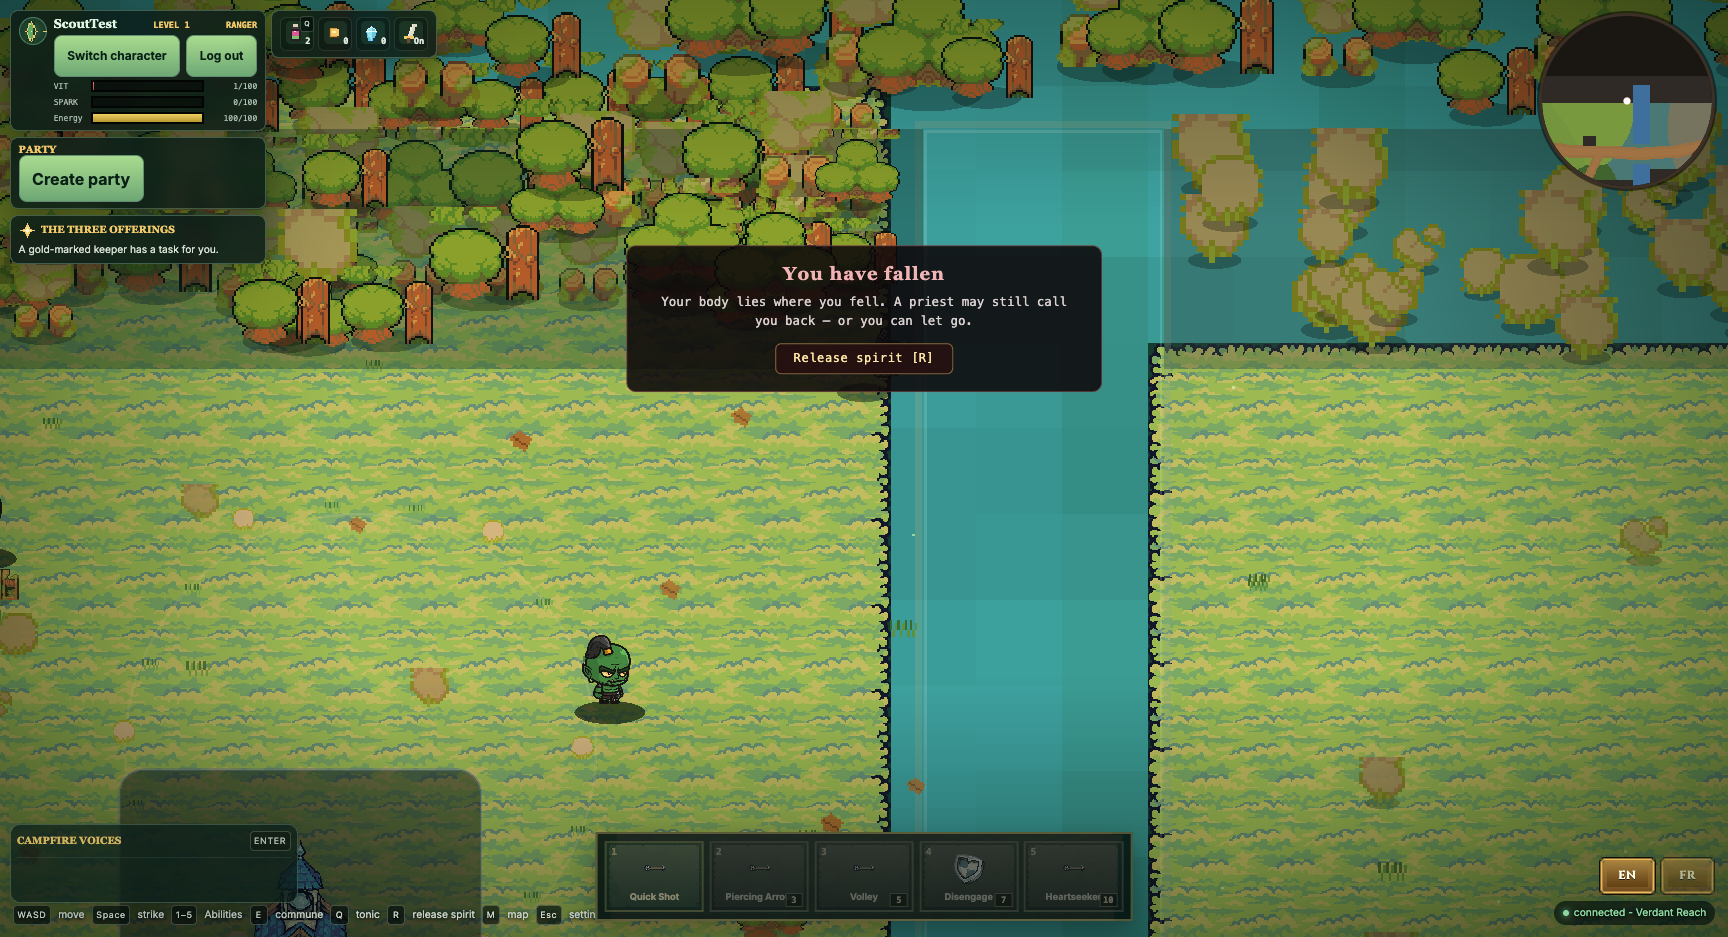
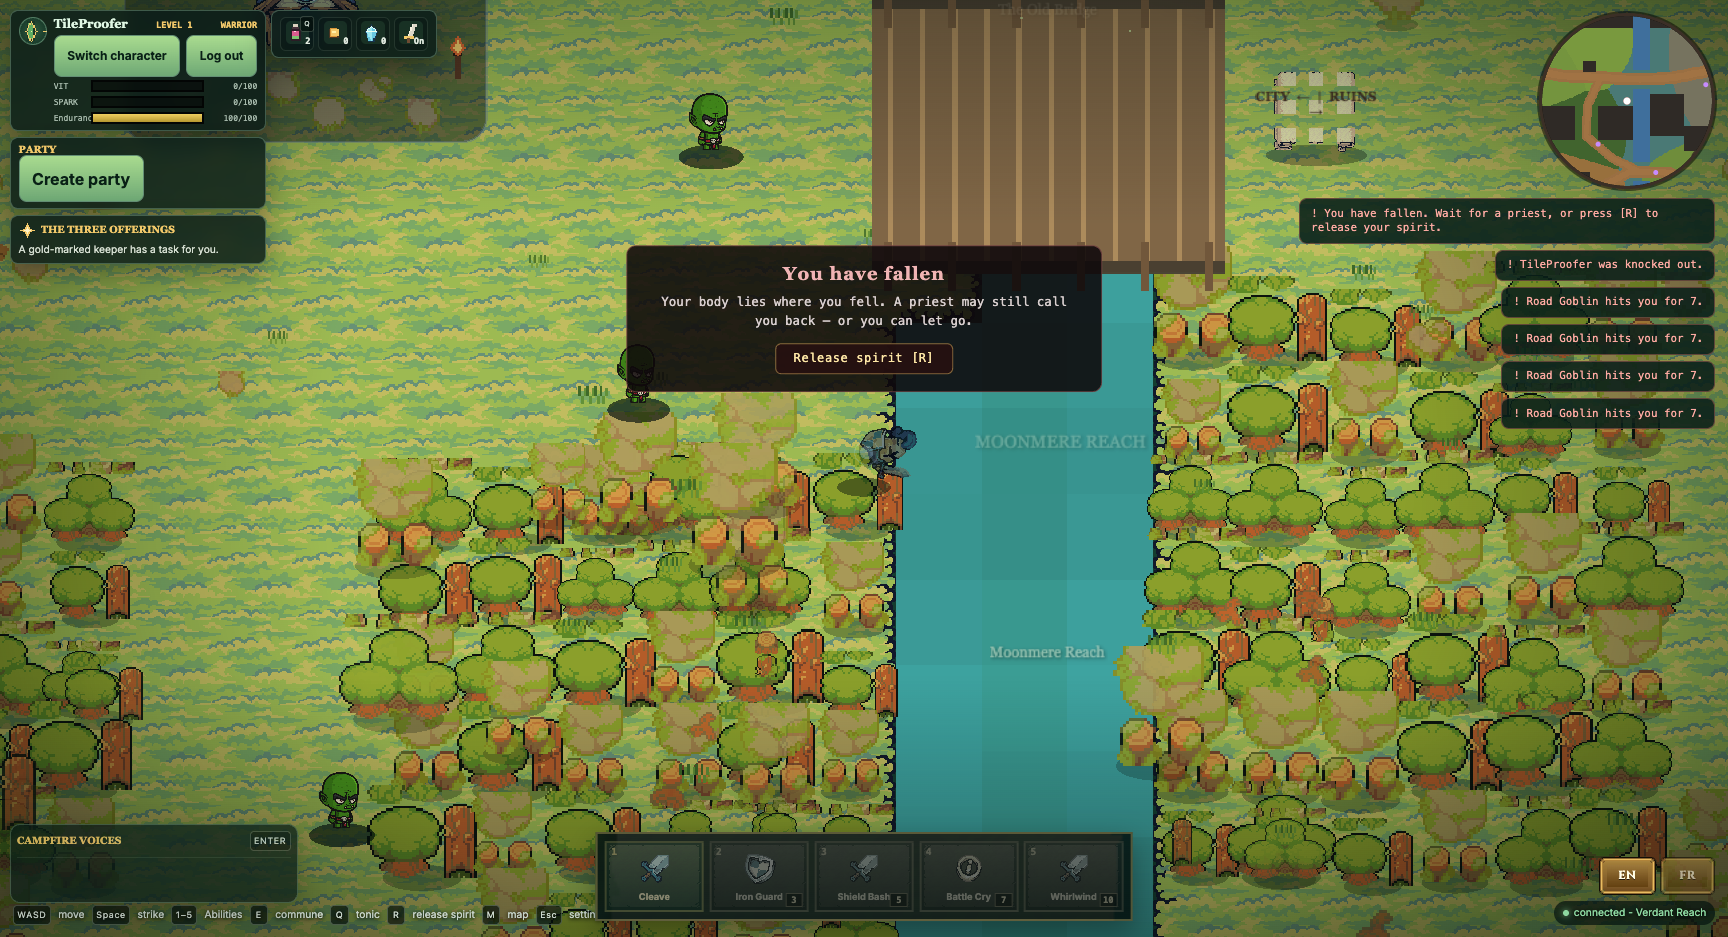
Delete the rect-drawn world still on top of the tilemap
Commit 2515569 moved terrain drawing onto the 64px tilemap but left the old
rect-authored prop scatter drawing from the rects' pre-image: #buildBoundary
scattered 237 trees/rocks along the world's edge, which the tilemap now
correctly renders as water; #buildSharedBlockers scattered 235 more into the
three cliff rects (which rasterise to water) plus 20 more onto forest-rect
cells the tile grid calls open ground; and #buildDecor scattered props with
no tile awareness at all (8 on water, 35 trees on walkable ground).

Delete #buildSharedBlockers and #buildBoundary's prop scatter outright (the
former's forest props are superseded by the tile-driven #buildForestTrees
anyway), and gate #buildDecor on the real tile grid: skip any prop over a
water cell, and skip a tree pick unless the cell is solid enough to actually
block a player. #blockedAt (a stale rect-containment check) is now redundant
and goes with it.

Verified against the real Verdant Reach tilemap: reproduced the reviewer's
237/235/20 counts before the fix, confirmed zero after. That check is now
test/tile-render-props.test.ts, a permanent regression test over the real
DECOR_REGIONS and tilemap data.

diff --git a/src/client/game/renderer.ts b/src/client/game/renderer.ts
@@ -11,7 +11,6 @@ import {
 import type { MainHandItem, OffHandItem, PrimaryColor } from "../../shared/character.js";
 import { isSpirit } from "../../shared/death.js";
 import {
-  BOUNDARY_OBSTACLES,
   hashSeed,
   type MonsterSpecies,
   type PlayerClass,
@@ -20,7 +19,6 @@ import {
   QUEST_NPC,
   QUEST_SITES,
   SAFE_ZONE,
-  TERRAIN_BLOCKERS,
   VERDANT_REACH_TERRAIN,
   WORLD_LANDMARKS,
 } from "../../shared/game.js";
@@ -35,7 +33,7 @@ import type {
   QuestState,
 } from "../../shared/protocol.js";
 import { PLAYER_SIZE, WORLD_HEIGHT, WORLD_WIDTH } from "../../shared/simulation.js";
-import { isLandKind, kindAt, TILE_SIZE } from "../../shared/tilemap.js";
+import { isLandKind, isSolidKind, kindAt, kindAtPoint, TILE_SIZE } from "../../shared/tilemap.js";
 import { onLocaleChange, t } from "../i18n.js";
 import { landTile } from "./autotile.js";
 import { MAIN_HAND_ART, OFF_HAND_ART, PLAYER_ATLAS_FRAMES } from "./character-art.js";
@@ -607,9 +605,7 @@ export class Renderer {
     );
     this.#app.stage.addChild(this.#world);
 
-    this.#buildSharedBlockers();
     this.#buildForestTrees();
-    this.#buildBoundary();
     this.#buildDecor();
     this.#buildSetPieces();
     this.#buildLandmarks();
@@ -631,55 +627,6 @@ export class Renderer {
   ): void {
     parent.addChild(container);
     this.#staticViews.push({ container, x, y, radius });
-  }
-
-  #buildSharedBlockers(): void {
-    for (const [blockerIndex, blocker] of TERRAIN_BLOCKERS.entries()) {
-      const { rect } = blocker;
-      const centerX = rect.x + rect.width / 2;
-      const centerY = rect.y + rect.height / 2;
-      const radius = Math.hypot(rect.width, rect.height) / 2 + 50;
-      if (blocker.kind === "water") {
-        const bank = new Graphics()
-          .rect(rect.x - 3, rect.y - 3, rect.width + 6, rect.height + 6)
-          .stroke({ width: 5, color: 0x88a889, alpha: 0.34 })
-          .rect(rect.x + 2, rect.y + 2, rect.width - 4, rect.height - 4)
-          .stroke({ width: 2, color: 0xc2e3d5, alpha: 0.2 });
-        this.#registerStatic(bank, centerX, centerY, radius, this.#groundDecor);
-        continue;
-      }
-
-      const mass = new Container();
-      mass.position.set(rect.x, rect.y);
-      mass.addChild(
-        new Graphics()
-          .rect(0, 0, rect.width, rect.height)
-          .fill({ color: blocker.kind === "cliff" ? 0x34443c : 0x102f28, alpha: 0.36 }),
-      );
-      const spacing = blocker.kind === "cliff" ? 52 : 64;
-      const columns = Math.max(1, Math.floor(rect.width / spacing));
-      const rows = Math.max(1, Math.floor(rect.height / spacing));
-      const count = Math.min(88, columns * rows + columns);
-      for (let index = 0; index < count; index++) {
-        const seed = blockerIndex * 401 + index * 17;
-        const x = 18 + seeded(seed + 2) * Math.max(8, rect.width - 36);
-        const y = 28 + seeded(seed + 7) * Math.max(8, rect.height - 34);
-        const isRock = blocker.kind === "cliff" || index % 9 === 0;
-        const texture = isRock
-          ? pickTexture(this.art.props.rocks, seed)
-          : pickTexture(this.art.props.trees, seed);
-        const size = isRock ? 36 + seeded(seed + 3) * 30 : 58 + seeded(seed + 5) * 34;
-        const shadow = createSoftShadow(size * 0.78, size * 0.25, 0.3);
-        shadow.position.set(x, y - 2);
-        mass.addChild(shadow);
-        const prop = createFittedSprite(texture, size, size);
-        prop.anchor.set(0.5, 1);
-        prop.position.set(x, y);
-        prop.tint = blocker.kind === "cliff" ? 0xb8c2a8 : 0xcbd8ae;
-        mass.addChild(prop);
-      }
-      this.#registerStatic(mass, centerX, centerY, radius);
-    }
   }
 
   /**
@@ -715,43 +662,6 @@ export class Renderer {
     }
   }
 
-  #buildBoundary(): void {
-    for (const [side, rect] of BOUNDARY_OBSTACLES.entries()) {
-      const horizontal = rect.width > rect.height;
-      const length = horizontal ? rect.width : rect.height;
-      const count = Math.ceil(length / 58);
-      for (let index = 0; index < count; index++) {
-        const seed = 2600 + side * 307 + index * 13;
-        const x = horizontal
-          ? rect.x + ((index + 0.35 + seeded(seed)) / count) * rect.width
-          : rect.x + rect.width * (0.25 + seeded(seed + 2) * 0.5);
-        const y = horizontal
-          ? rect.y + rect.height * (0.35 + seeded(seed + 4) * 0.55)
-          : rect.y + ((index + 0.35 + seeded(seed)) / count) * rect.height;
-        const container = new Container();
-        container.position.set(x, y);
-        const rocky = side >= 2 && index % 3 === 0;
-        const texture = rocky
-          ? pickTexture(this.art.props.rocks, seed)
-          : pickTexture(this.art.props.trees, seed);
-        const size = rocky ? 44 + seeded(seed + 5) * 24 : 68 + seeded(seed + 7) * 42;
-        container.addChild(createSoftShadow(size * 0.75, size * 0.24, 0.32));
-        const prop = createFittedSprite(texture, size, size);
-        prop.anchor.set(0.5, 1);
-        prop.tint = side === 2 ? 0xb8c2a0 : 0xc8d5aa;
-        container.addChild(prop);
-        this.#registerStatic(container, x, y, size + 30);
-      }
-    }
-  }
-
-  #blockedAt(x: number, y: number): boolean {
-    return TERRAIN_BLOCKERS.some(
-      ({ rect }) =>
-        x >= rect.x && x <= rect.x + rect.width && y >= rect.y && y <= rect.y + rect.height,
-    );
-  }
-
   #nearLandmark(x: number, y: number, margin: number): boolean {
     return WORLD_LANDMARKS.some(
       (landmark) =>
@@ -762,16 +672,37 @@ export class Renderer {
     );
   }
 
-  #decorTexture(theme: DecorTheme, seed: number): { texture: Texture; size: number; tint: number } {
+  /**
+   * `solid` marks a pick as a tree — a prop that reads as something you'd expect to collide
+   * with. `#buildDecor` only lets one stand where the tile grid agrees a tree could be: on a
+   * `forest` (or `building`) cell. Everything else here (tufts, mushrooms, rocks, fences, ruins)
+   * is small enough or already understood as walk-through set dressing, so it is not held to that
+   * rule — only the water check applies to it.
+   */
+  #decorTexture(
+    theme: DecorTheme,
+    seed: number,
+  ): { texture: Texture; size: number; tint: number; solid: boolean } {
     if (theme === "forest") {
       if (seed % 9 === 0)
-        return { texture: pickTexture(this.art.props.mushrooms, seed), size: 22, tint: 0xd8e8b8 };
+        return {
+          texture: pickTexture(this.art.props.mushrooms, seed),
+          size: 22,
+          tint: 0xd8e8b8,
+          solid: false,
+        };
       if (seed % 7 === 0)
-        return { texture: pickTexture(this.art.props.rocks, seed), size: 28, tint: 0xc8d2af };
+        return {
+          texture: pickTexture(this.art.props.rocks, seed),
+          size: 28,
+          tint: 0xc8d2af,
+          solid: false,
+        };
       return {
         texture: pickTexture(this.art.props.trees, seed),
         size: 54 + seeded(seed + 6) * 38,
         tint: 0xd4dfb6,
+        solid: true,
       };
     }
     if (theme === "marsh" || theme === "wet") {
@@ -785,6 +716,7 @@ export class Renderer {
         texture: pickTexture(pool, seed),
         size: seed % 7 === 0 ? 34 : 20 + seeded(seed + 5) * 14,
         tint: 0xbfd2b0,
+        solid: false,
       };
     }
     if (theme === "ruin" || theme === "gate") {
@@ -793,6 +725,7 @@ export class Renderer {
         texture: pickTexture(pool, seed),
         size: seed % 6 === 0 ? 52 : 24 + seeded(seed + 5) * 24,
         tint: 0xcacbb4,
+        solid: false,
       };
     }
     if (theme === "farm") {
@@ -802,6 +735,7 @@ export class Renderer {
         texture: pickTexture(pool, seed),
         size: seed % 5 === 0 ? 42 : 18 + seeded(seed + 5) * 10,
         tint: 0xe0d1a5,
+        solid: false,
       };
     }
     if (theme === "road") {
@@ -810,18 +744,23 @@ export class Renderer {
         texture: pickTexture(pool, seed),
         size: seed % 5 === 0 ? 38 : 20 + seeded(seed + 5) * 14,
         tint: 0xd8cfaa,
+        solid: false,
       };
     }
-    const pool =
-      seed % 6 === 0 ? this.art.props.trees : [...this.art.props.tufts, ...this.art.props.leaves];
+    const isTree = seed % 6 === 0;
+    const pool = isTree
+      ? this.art.props.trees
+      : [...this.art.props.tufts, ...this.art.props.leaves];
     return {
       texture: pickTexture(pool, seed),
-      size: seed % 6 === 0 ? 52 + seeded(seed + 5) * 26 : 18 + seeded(seed + 5) * 10,
+      size: isTree ? 52 + seeded(seed + 5) * 26 : 18 + seeded(seed + 5) * 10,
       tint: theme === "village" ? 0xe5dbb7 : 0xe9e1b8,
+      solid: isTree,
     };
   }
 
   #buildDecor(): void {
+    const tiles = VERDANT_REACH_TERRAIN.tiles;
     for (const region of DECOR_REGIONS) {
       for (let index = 0; index < region.count; index++) {
         const seed = region.seed + index * 19;
@@ -831,7 +770,7 @@ export class Renderer {
         const y = region.y + Math.sin(angle) * region.radiusY * radius;
         if (x < 120 || y < 120 || x > WORLD_WIDTH - 120 || y > WORLD_HEIGHT - 120) continue;
         if (roadStrength(x, y) > 0) continue;
-        if (this.#blockedAt(x, y) || this.#nearLandmark(x, y, 70)) continue;
+        if (this.#nearLandmark(x, y, 70)) continue;
         const inSquare =
           x > SAFE_ZONE.x + 210 &&
           x < SAFE_ZONE.x + SAFE_ZONE.width - 170 &&
@@ -840,6 +779,13 @@ export class Renderer {
         if (inSquare) continue;
 
         const selection = this.#decorTexture(region.theme, seed);
+        // What you see must be what you collide with: a prop floating over water is a lie, and
+        // so is a "solid" tree standing on ground a player can walk straight through. The tile
+        // grid — not the pre-image rects this scatter used to trust — is the one truth for both.
+        const kind = kindAtPoint(tiles, x, y);
+        if (!isLandKind(kind)) continue;
+        if (selection.solid && !isSolidKind(kind)) continue;
+
         const container = new Container();
         container.position.set(x, y);
         if (selection.size > 34) {

diff --git a/test/tile-render-props.test.ts b/test/tile-render-props.test.ts
@@ -1,0 +1,121 @@
+import { describe, expect, it } from "vitest";
+import { DECOR_REGIONS, roadStrength } from "../src/client/game/world-layout.js";
+import { SAFE_ZONE, VERDANT_REACH_TERRAIN, WORLD_LANDMARKS } from "../src/shared/game.js";
+import { WORLD_HEIGHT, WORLD_WIDTH } from "../src/shared/simulation.js";
+import { isLandKind, isSolidKind, kindAtPoint } from "../src/shared/tilemap.js";
+
+/**
+ * The thesis of this slice is "what you SEE is what you COLLIDE with." Commit 2515569 moved
+ * *terrain* onto the tile grid but left the old rect-authored prop scatter drawing from the
+ * rects' pre-image instead: 237 boundary trees standing in what the tilemap now renders as
+ * water, 235 cliff "boulders" doing the same, 20 forest props anchored on a cell the tile grid
+ * calls open ground, and `#buildDecor` scattering both trees and non-solid dressing with no tile
+ * awareness at all. The fix deleted the rect-driven scatter outright (`#buildSharedBlockers`,
+ * `#buildBoundary`'s props) and gated the one scatter worth keeping (`#buildDecor`) on the real
+ * tile grid.
+ *
+ * This test mirrors `#buildDecor` + `#decorTexture`'s `solid` split closely enough to reproduce,
+ * over the REAL `VERDANT_REACH_TERRAIN.tiles` and the REAL `DECOR_REGIONS`, the two invariants
+ * that fix depends on. It cannot import the renderer's private methods directly — they build
+ * PixiJS `Graphics`/`Sprite` objects that need a live canvas — so if `#buildDecor`'s position math
+ * or `#decorTexture`'s tree/not-tree split ever changes, this must change with it, the same
+ * relationship `test/tilemap-data.test.ts`'s frozen `SLICE_1_ROWS` has with the generator it
+ * cross-checks. What it verifies independently of renderer.ts is the DATA: if `DECOR_REGIONS`
+ * grows to overlap a lake, or the map generator reshapes the coastline, this fails without
+ * anyone touching renderer.ts at all.
+ */
+function seeded(index: number): number {
+  const value = Math.sin(index * 12.9898 + 78.233) * 43_758.5453;
+  return value - Math.floor(value);
+}
+
+/** Mirrors `#decorTexture`'s branch selection: true only for the picks drawn from the tree pool. */
+function isTreePick(theme: string, seed: number): boolean {
+  if (theme === "forest") return seed % 9 !== 0 && seed % 7 !== 0;
+  if (theme === "marsh" || theme === "wet") return false;
+  if (theme === "ruin" || theme === "gate") return false;
+  if (theme === "farm") return false;
+  if (theme === "road") return false;
+  return seed % 6 === 0; // village / meadow's default branch
+}
+
+function nearLandmark(x: number, y: number, margin: number): boolean {
+  return WORLD_LANDMARKS.some(
+    (landmark) =>
+      x >= landmark.x - margin &&
+      x <= landmark.x + landmark.width + margin &&
+      y >= landmark.y - margin &&
+      y <= landmark.y + landmark.height + margin,
+  );
+}
+
+interface Placement {
+  x: number;
+  y: number;
+  isTree: boolean;
+}
+
+/** Mirrors `#buildDecor`, gate included: every filter renderer.ts applies before drawing a prop. */
+function decorPlacements(): Placement[] {
+  const tiles = VERDANT_REACH_TERRAIN.tiles;
+  const placements: Placement[] = [];
+  for (const region of DECOR_REGIONS) {
+    for (let index = 0; index < region.count; index++) {
+      const seed = region.seed + index * 19;
+      const angle = seeded(seed + 3) * Math.PI * 2;
+      const radius = Math.sqrt(seeded(seed + 9));
+      const x = region.x + Math.cos(angle) * region.radiusX * radius;
+      const y = region.y + Math.sin(angle) * region.radiusY * radius;
+      if (x < 120 || y < 120 || x > WORLD_WIDTH - 120 || y > WORLD_HEIGHT - 120) continue;
+      if (roadStrength(x, y) > 0) continue;
+      if (nearLandmark(x, y, 70)) continue;
+      const inSquare =
+        x > SAFE_ZONE.x + 210 &&
+        x < SAFE_ZONE.x + SAFE_ZONE.width - 170 &&
+        y > SAFE_ZONE.y + 250 &&
+        y < SAFE_ZONE.y + SAFE_ZONE.height - 110;
+      if (inSquare) continue;
+
+      const isTree = isTreePick(region.theme, seed);
+      const kind = kindAtPoint(tiles, x, y);
+      if (!isLandKind(kind)) continue;
+      if (isTree && !isSolidKind(kind)) continue;
+
+      placements.push({ x, y, isTree });
+    }
+  }
+  return placements;
+}
+
+describe("decor scatter stays honest about the tile grid", () => {
+  const placements = decorPlacements();
+  const tiles = VERDANT_REACH_TERRAIN.tiles;
+
+  it("still scatters plenty of props, so the invariants below aren't vacuously true", () => {
+    expect(placements.length).toBeGreaterThan(100);
+  });
+
+  it("never floats a prop over a water cell", () => {
+    const onWater = placements.filter((p) => !isLandKind(kindAtPoint(tiles, p.x, p.y)));
+    expect(onWater).toEqual([]);
+  });
+
+  it("never stands a tree on a cell a player can walk through", () => {
+    const treeOnWalkable = placements
+      .filter((p) => p.isTree)
+      .filter((p) => !isSolidKind(kindAtPoint(tiles, p.x, p.y)));
+    expect(treeOnWalkable).toEqual([]);
+  });
+});
+
+describe("forest trees (#buildForestTrees) anchor only on solid ground", () => {
+  // #buildForestTrees places one tree per `forest` tile, jittered by at most ±0.1 * TILE_SIZE
+  // from the cell centre — far short of the half-cell (0.5 * TILE_SIZE) needed to cross into a
+  // neighbouring cell. Its correctness therefore reduces entirely to this: `forest` must stay a
+  // solid, land tile kind. If that ever changed, every forest tree would silently start standing
+  // on ground a player can walk straight through.
+  it("keeps forest a solid, walkable-blocking land kind", () => {
+    expect(isLandKind("forest")).toBe(true);
+    expect(isSolidKind("forest")).toBe(true);
+  });
+});